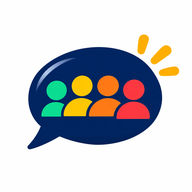
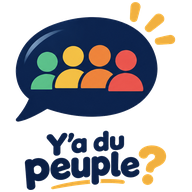
Accueil : fond turquoise vif, bulle + écriture réduite, icône de lancement sans carré blanc (v206)
Claude-Session: https://claude.ai/code/session_015rMa72ZKTeXG5gb4Qifn48

diff --git a/js/app.js b/js/app.js
@@ -1,17 +1,17 @@
 // Y'a du peuple ? — logique de l'appli (carte, fiche, signalement, compte).
-import { api, DEMO } from './api.js?v=205';
+import { api, DEMO } from './api.js?v=206';
 import {
   MAP_STYLE_URL, DEFAULT_CENTER, DEFAULT_ZOOM, CONTACT_EMAIL, GOOGLE_CLIENT_ID,
   ROUTE, REFRESH_MS,
-} from './config.js?v=205';
+} from './config.js?v=206';
 import {
   LEVELS, LEVEL_INFO, WAIT_INFO, NO_INFO, levelInfo, describeStatus, mainStatus, brandShort,
   theoryLevelAt, parisNow, bestTimeToday, fmtHour, distanceM, fmtDistance, ago,
   levelFromPercent, gDay, dayHours, openDuringHour, bestTimeFromProfile, openState, hoursLines,
   estimateRoute, fmtDuration,
-} from './levels.js?v=205';
-import { airbnbize, addShieldImage } from './mapstyle.js?v=205';
-import { BRAND_PATHS } from './brands.js?v=205';
+} from './levels.js?v=206';
+import { airbnbize, addShieldImage } from './mapstyle.js?v=206';
+import { BRAND_PATHS } from './brands.js?v=206';
 
 // ---------------------------------------------------------------------------
 // État
@@ -1611,9 +1611,9 @@ let imagesPreloaded = false;
 function preloadAccountImages() {
   if (imagesPreloaded) return;
   imagesPreloaded = true;
-  const urls = new Set([...BADGE_ART].map((c) => `icons/badges/${c}.webp?v=205`));
+  const urls = new Set([...BADGE_ART].map((c) => `icons/badges/${c}.webp?v=206`));
   custom.load().then((list) => {
-    (list || []).forEach((c) => { if (/\.(webp|png|svg)$/.test(c.value || '')) urls.add(`${c.value}?v=205`); });
+    (list || []).forEach((c) => { if (/\.(webp|png|svg)$/.test(c.value || '')) urls.add(`${c.value}?v=206`); });
   }).catch(() => {}).finally(() => {
     const go = () => urls.forEach((u) => { const im = new Image(); im.decoding = 'async'; im.src = u; im.decode?.().catch(() => {}); preloaded.push(im); });
     (window.requestIdleCallback || ((f) => setTimeout(f, 300)))(go);
@@ -1672,7 +1672,7 @@ async function renderAccount(tab = 'profil', opts = {}) {
     </div>
     <div class="referral">
       <div class="ref-head">
-        <img class="ref-ico" src="icons/badges/ref1.webp?v=205" alt="">
+        <img class="ref-ico" src="icons/badges/ref1.webp?v=206" alt="">
         <div class="grow"><div class="t">Parrainage</div><div class="s">Invite tes amis : vous gagnez tous les deux.</div></div>
         <span class="ref-count"><b>${p.referrals ?? 0}</b>${(p.referrals ?? 0) > 1 ? 'amis' : 'ami'}</span>
       </div>
@@ -1729,8 +1729,8 @@ const custom = {
   async load() { if (!this.list.length) this.list = await api.customizations() || []; return this.list; },
   find(kind, code) { return this.list.find((c) => c.kind === kind && c.code === code); },
   // Valeur = fichier image de l'appli (icons/avatars/…svg, icons/banners/…svg) ; ancien format emoji/dégradé toléré.
-  img(v, cls = '') { return /\.(webp|png|svg)$/.test(v || '') ? `<img src="${v}?v=205" alt="" class="${cls}">` : (v || ''); },
-  bg(v) { return /\.(webp|png|svg)$/.test(v || '') ? `url(${v}?v=205) center/cover` : v; },
+  img(v, cls = '') { return /\.(webp|png|svg)$/.test(v || '') ? `<img src="${v}?v=206" alt="" class="${cls}">` : (v || ''); },
+  bg(v) { return /\.(webp|png|svg)$/.test(v || '') ? `url(${v}?v=206) center/cover` : v; },
   avatar(code) { return this.img(this.find('avatar', code)?.value, 'avatar-img' + (String(code).startsWith('badge_') ? ' is-badge' : '')); },
   // Bannière = ruban qui porte le pseudo (rubans du 16/11/2026, outils/rubans_sheet2.py, découpés tels quels).
   // Pseudo : centré sur la bande de chaque ruban (hauteur mesurée) + contour de la couleur du ruban, foncée.
@@ -1738,7 +1738,7 @@ const custom = {
   ribbon(code, pseudo) {
     const b = this.find('banner', code) || this.list.find((c) => c.kind === 'banner');
     const [ty, tc] = this.RIB[b?.code] || ['46%', '#0B1F3A'];
-    return `<div class="ribbon" style="--ty:${ty};--tc:${tc}">${b ? `<img src="${b.value}?v=205" alt="">` : ''}<span>${esc(pseudo || '')}</span></div>`;
+    return `<div class="ribbon" style="--ty:${ty};--tc:${tc}">${b ? `<img src="${b.value}?v=206" alt="">` : ''}<span>${esc(pseudo || '')}</span></div>`;
   },
 };
 async function openCustomize() {
@@ -1750,7 +1750,7 @@ async function openCustomize() {
     const needBadge = c.requires_badge && !mine.has(c.requires_badge);
     const locked = lvl < c.min_level || needBadge;
     const on = (c.kind === 'avatar' ? p.avatar : p.banner) === c.code;
-    const inner = c.kind === 'avatar' ? `<span class="cz-emoji">${custom.img(c.value, 'cz-img')}</span>` : `<span class="cz-ribbon"><img src="${c.value}?v=205" alt=""></span>`;
+    const inner = c.kind === 'avatar' ? `<span class="cz-emoji">${custom.img(c.value, 'cz-img')}</span>` : `<span class="cz-ribbon"><img src="${c.value}?v=206" alt=""></span>`;
     const label = c.requires_badge ? (needBadge ? '🔒' : '✅') : `${locked ? '🔒 ' : ''}Niv. ${c.min_level}`;
     return `<button type="button" class="cz ${on ? 'on' : ''} ${locked ? 'locked' : ''}" data-kind="${c.kind}" data-code="${c.code}" ${locked ? 'disabled' : ''}>
       ${inner}<span class="cz-lock">${esc(label)}</span></button>`;
@@ -1830,7 +1830,7 @@ const BADGE_ART = new Set(['v1', 'v10', 'v50', 'v100', 'v250', 'v500', 'drive10'
 // Badges en .svg : plus aucun (outils/badges_sheet.py et badges_sheet2.py découpent les images ChatGPT).
 const BADGE_SVG = new Set(); // tous les badges sont maintenant des images ChatGPT (.webp)
 const badgeImg = (code) => BADGE_ART.has(code)
-  ? `<img src="icons/badges/${code}.${BADGE_SVG.has(code) ? 'svg' : 'webp'}?v=205" alt="" class="badge-img">`
+  ? `<img src="icons/badges/${code}.${BADGE_SVG.has(code) ? 'svg' : 'webp'}?v=206" alt="" class="badge-img">`
   : `<span class="badge-emoji">${BADGE_ICONS[code] || '🏅'}</span>`;
 function badgesHtml(rows = []) {
   if (!rows.length) return '<p class="muted">Aucun badge pour le moment.</p>';

diff --git a/css/app.css b/css/app.css
@@ -238,7 +238,7 @@ pre.export { background: #F3F4F6; border-radius: 12px; padding: 10px; font-size:
 /* ---------- Accueil ---------- */
 .welcome {
   position: fixed; inset: 0; z-index: 20; color: #fff;
-  background: #4A9A9D url(../icons/fond-accueil.jpg?v=205) center / cover no-repeat;
+  background: radial-gradient(ellipse 85% 42% at 50% 42%, rgba(255,255,255,.24), rgba(255,255,255,0) 72%), linear-gradient(180deg, #18C8B4, #0D9488);
   display: grid; place-items: center; padding: 24px; animation: fade .25s ease;
 }
 /* Accueil turquoise (21/11/2026) : couleurs inversées par rapport à l'ancien bleu nuit */
@@ -355,14 +355,14 @@ pre.export { background: #F3F4F6; border-radius: 12px; padding: 10px; font-size:
 .cards { transition: opacity .35s ease, transform .35s ease; }
 body.intro .cards { opacity: 0; transform: translateY(20px); pointer-events: none; }
 /* Accueil : le bleu va jusque sous la barre de navigation du téléphone */
-html.on-welcome, html.on-welcome body { background: #3C8589; }
+html.on-welcome, html.on-welcome body { background: #0D9488; }
 /* Au chargement : rien d'affiché (fond bleu) tant qu'on ne sait pas s'il faut l'accueil ou la carte */
-html.booting, html.booting body { background: #55A9AC; }
+html.booting, html.booting body { background: #18C8B4; }
 /* Écran de démarrage : logo complet sur turquoise (même fond que l'écran de lancement du téléphone) */
 html.booting body::before {
   content: ''; position: fixed; inset: 0; z-index: 100;
-  background: url(../icons/logo-boot.png) center 46% / min(68vw, 340px) auto no-repeat,
-              #4A9A9D url(../icons/fond-accueil.jpg?v=205) center / cover no-repeat;
+  background: url(../icons/logo-boot.png) center 46% / min(60vw, 300px) auto no-repeat,
+              radial-gradient(ellipse 85% 42% at 50% 42%, rgba(255,255,255,.24), rgba(255,255,255,0) 72%), linear-gradient(180deg, #18C8B4, #0D9488);
 }
 html.booting body > *:not(#welcome) { visibility: hidden; }
 .welcome { bottom: calc(-1 * var(--safe-bottom)); padding-bottom: calc(24px + var(--safe-bottom)); min-height: 100lvh; }

diff --git a/index.html b/index.html
@@ -21,13 +21,13 @@
   <link rel="preconnect" href="https://tiles.openfreemap.org" crossorigin>
   <link rel="preconnect" href="https://ygekcpnsjbbdgtmlxdce.supabase.co" crossorigin>
   <link rel="manifest" href="manifest.webmanifest">
-  <link rel="icon" href="icons/fav-64.png?v=205" type="image/png" sizes="64x64">
-  <link rel="icon" href="icons/fav-192.png?v=205" type="image/png" sizes="192x192">
-  <link rel="apple-touch-icon" href="icons/icon-192.png?v=205">
+  <link rel="icon" href="icons/fav-64.png?v=206" type="image/png" sizes="64x64">
+  <link rel="icon" href="icons/fav-192.png?v=206" type="image/png" sizes="192x192">
+  <link rel="apple-touch-icon" href="icons/icon-512.png?v=206">
   <meta name="apple-mobile-web-app-capable" content="yes">
   <meta name="apple-mobile-web-app-status-bar-style" content="default">
   <link rel="stylesheet" href="vendor/maplibre-gl.css">
-  <link rel="stylesheet" href="css/app.css?v=205">
+  <link rel="stylesheet" href="css/app.css?v=206">
 </head>
 <body class="intro">
   <div id="map" aria-label="Carte des restaurants"></div>
@@ -70,7 +70,7 @@
   <section class="welcome" id="welcome" hidden>
     <div class="welcome-inner">
       <div class="welcome-logo">
-        <img src="icons/logo-boot.png?v=205" alt="Y'a du peuple ?" width="260" height="245">
+        <img src="icons/logo-boot.png?v=206" alt="Y'a du peuple ?" width="230" height="263">
       </div>
       <h1 class="sr-only">Y'a du peuple&nbsp;?</h1>
       <p class="slogan" id="slogan">Venu pour manger, pas pour poireauter.</p>
@@ -89,6 +89,6 @@
 
   <script src="vendor/maplibre-gl.js"></script>
   <script src="vendor/supabase.js"></script>
-  <script type="module" src="js/app.js?v=205"></script>
+  <script type="module" src="js/app.js?v=206"></script>
 </body>
 </html>

diff --git a/demo.html b/demo.html
@@ -7,12 +7,12 @@
   <meta name="description" content="L'affluence des fast-foods en direct, salle et Drive.">
   <meta name="theme-color" content="#0B1F3A">
   <link rel="manifest" href="manifest.webmanifest">
-  <link rel="icon" href="icons/fav-64.png?v=205" type="image/png">
-  <link rel="apple-touch-icon" href="icons/icon-192.png?v=205">
+  <link rel="icon" href="icons/fav-64.png?v=206" type="image/png">
+  <link rel="apple-touch-icon" href="icons/icon-512.png?v=206">
   <meta name="apple-mobile-web-app-capable" content="yes">
   <meta name="apple-mobile-web-app-status-bar-style" content="default">
   <link rel="stylesheet" href="vendor/maplibre-gl.css">
-  <link rel="stylesheet" href="css/app.css?v=205">
+  <link rel="stylesheet" href="css/app.css?v=206">
 </head>
 <body class="intro">
   <div id="map" aria-label="Carte des restaurants"></div>
@@ -55,7 +55,7 @@
   <section class="welcome" id="welcome" hidden>
     <div class="welcome-inner">
       <div class="welcome-logo">
-        <img src="icons/icon-512.png?v=205" alt="" width="110" height="110" style="border-radius:26px">
+        <img src="icons/icon-512.png?v=206" alt="" width="110" height="110" style="border-radius:26px">
       </div>
       <h1>Y'a du peuple&nbsp;?</h1>
       <p class="slogan" id="slogan">Venu pour manger, pas pour poireauter.</p>
@@ -75,6 +75,6 @@
   <script>window.YDP_DEMO = true;</script>
   <script src="vendor/maplibre-gl.js"></script>
   <script src="vendor/supabase.js"></script>
-  <script type="module" src="js/app.js?v=205"></script>
+  <script type="module" src="js/app.js?v=206"></script>
 </body>
 </html>

diff --git a/js/api.js b/js/api.js
@@ -1,6 +1,6 @@
 // Accès aux données : Supabase en vrai, ou un faux serveur en mode démo (?demo).
-import { SUPABASE_URL, SUPABASE_PUBLISHABLE_KEY } from './config.js?v=205';
-import { createDemoApi } from './demo.js?v=205';
+import { SUPABASE_URL, SUPABASE_PUBLISHABLE_KEY } from './config.js?v=206';
+import { createDemoApi } from './demo.js?v=206';
 
 // Charge une table par pages de 1000 : 5 pages en parallèle, puis la suite si besoin.
 async function pagesInParallel(page, first = 5) {

diff --git a/js/demo.js b/js/demo.js
@@ -1,6 +1,6 @@
 // Faux serveur pour le mode démo (?demo) : aucune donnée réelle n'est lue ni écrite.
-import { DEMO_ESTABLISHMENTS } from './demo-data.js?v=205';
-import { distanceM, LEVELS, theoryLevelAt, parisNow } from './levels.js?v=205';
+import { DEMO_ESTABLISHMENTS } from './demo-data.js?v=206';
+import { distanceM, LEVELS, theoryLevelAt, parisNow } from './levels.js?v=206';
 
 const wait = (ms = 150) => new Promise((r) => setTimeout(r, ms));
 

diff --git a/CLAUDE.md b/CLAUDE.md
@@ -124,7 +124,7 @@ Erreurs de submit_report : `{ok:false, error, message}` — afficher `message` t
 - Base gratuite gardée éveillée (21/11/2026) : Supabase met en pause un projet gratuit après 7 jours sans activité. `.github/workflows/garder-supabase-eveille.yml` appelle get_partners (clé publique) 2 fois par jour ; échec visible dans l'onglet Actions du dépôt GitHub.
 - Contact : contact.yadupeuple@gmail.com
 - Écran de lancement et accueil turquoise (21/11/2026, v203, essai demandé par Alexis) : accueil = ancien bleu nuit inversé (fond dégradé turquoise #18C8B4 → #0D9488 comme la carte de fin des vidéos, boutons bleu nuit, textes bleu nuit) ;
-  écran de démarrage (html.booting, css `body::before`) = logo complet sur turquoise (icons/logo-boot.png) ; v205 : fond = icons/fond-accueil.jpg, reconstitué à l’identique de la carte de fin vidéo vue sur le téléphone d’Alexis ; logo-boot.png = logo complet avec la bulle recentrée (texte inchangé) ; manifest : background_color #55A9AC (écran de lancement), icône 192 bulle (raccourci), splash-512 logo complet en any + maskable (Chrome prend la maskable pour l’écran de lancement), theme_color bleu nuit (barre du haut), icône « any » icons/splash-512.png (logo complet sur ce turquoise, sert à l'écran de lancement Android) et icônes bulle icon-192/512 en « maskable » (icône du raccourci). **Pas testé sur un vrai téléphone** : l'écran de lancement Android dépend de l'installation ; si le raccourci garde l'ancien écran, le désinstaller puis le réinstaller. Retour arrière : remettre #0B1F3A et les icônes d'avant (git).
+  écran de démarrage (html.booting, css `body::before`) = logo complet sur turquoise (icons/logo-boot.png) ; v206 (21/11) : fond = dégradé CSS vif #18C8B4 → #0D9488 + halo blanc (comme la carte de fin vidéo, fond-accueil.jpg supprimé) ; logo-boot.png = bulle en grand + écriture « Y’a du peuple ? » réduite à 60 % dessous, centrée (maître /home/claude/logo-pro.png) ; manifest : background_color #18C8B4, icônes « any » = logo sur fond transparent (icon-192, splash-512, plus de carré blanc), « maskable » = splash-mask-512.png (logo sur turquoise), apple-touch-icon = icon-512 (opaque), theme_color bleu nuit. **Pas testé sur un vrai téléphone** : l'écran de lancement Android dépend de l'installation ; désinstaller puis réinstaller le raccourci. Retour arrière : remettre #0B1F3A et les icônes d'avant (git).
 - Slogans de l'écran d'accueil (dans cet ordre, en italique) :
   « Venu pour manger, pas pour poireauter. » → « Le parking, c'est pas un camping. » →
   « J'ai une pause déjeuner, pas un congé sabbatique. » → « Pas venu pour camper au Drive. » →
